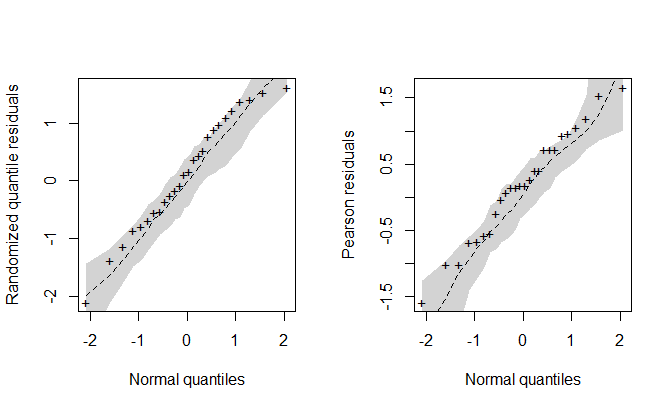
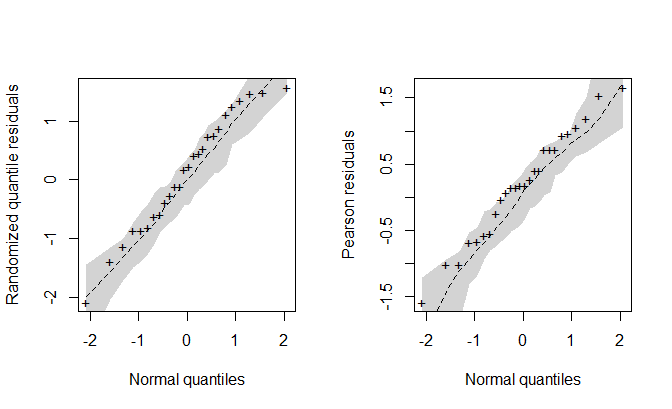
Update the README file

diff --git a/README.md b/README.md
@@ -1,20 +1,24 @@
 
 <!-- README.md is generated from README.Rmd. Please edit that file -->
 
-# `sdlrm`: Sdl Regression for Integer-Valued and Paired Count Data
+# `sdlrm`: Modified SDL Regression for Integer-Valued and Paired Count Data
 
 <!-- badges: start -->
+
+[![R-CMD-check](https://github.com/rdmatheus/sdlrm/actions/workflows/R-CMD-check.yaml/badge.svg)](https://github.com/rdmatheus/sdlrm/actions/workflows/R-CMD-check.yaml)
 <!-- badges: end -->
 
-> Rodrigo M. R. Medeiros  
-> <rodrigo.matheus@live.com>, IME-USP
+> Rodrigo M. R. de Medeiros  
+> Universidade Federal do Rio Grande do Norte, UFRN
+> <rodrigo.matheus@ufrn.br>
 
-Implementation of the SDL regression model proposed by Medeiros and
-Bourguignon (2020). The `sdlrm` package provide a set of functions for a
-complete analysis of integer-valued data, in which it is assumed that
-the dependent variable follows a Skew Discrete Laplace (SDL)
-distribution. This regression model is also useful for the analysis of
-experimental studies in which a paired count data is observed.
+Implementation of the modified SDL regression model proposed by Medeiros
+and Bourguignon (2025). The `sdlrm` package provide a set of functions
+for a complete analysis of integer-valued data, in which it is assumed
+that the dependent variable follows a modified skew discrete Laplace
+(SDL) distribution. This regression model is useful for the analysis of
+integer-valued data and experimental studies in which paired discrete
+observations are collected.
 
 ## Installation
 
@@ -50,6 +54,7 @@ popular packages, like `betareg` and `glm`, where the main function is
 methods.
 
 ``` r
+# Loading the sdlrm package
 library(sdlrm)
 
 # Data visualization (Description: ?pss)
@@ -58,88 +63,189 @@ library(sdlrm)
 ![](man/figures/fig1a.png)
 
 ``` r
-# Fit a double model (mean and dispersion) with a test for constant dispersion
-
-fit <- sdlrm(Diff ~ Group | Group, data = pss, disp_test = TRUE)
+# Fit a double model (mean and dispersion)
+fit0 <- sdlrm(difference ~ group | group, data = pss)
 
 # Print
-
-fit
+fit0
 #> 
 #> Call:
-#> sdlrm(formula = Diff ~ Group | Group, data = pss, disp_test = TRUE)
+#> sdlrm(formula = difference ~ group | group, data = pss)
 #> 
-#> mean Coefficients:
-#> [1]   7.363636 -11.296970
+#> Mean Coefficients:
+#> (Intercept)  groupSport 
+#>    7.363241  -11.296628 
 #> 
-#> dispersion Coefficients:
-#> [1]  2.6555938 -0.5875912
+#> Dispersion Coefficients:
+#> (Intercept)  groupSport 
+#>   2.6555857  -0.5875779 
+#> 
+#> ---
+#> Log-lik value: -88.56555
+#> Mode: 0
+#> AIC: 187.1311 and BIC: 193.4216
 
 # Summary
-
-summary(fit)
-#>
+summary(fit0)
 #> Call:
-#> sdlrm(formula = Diff ~ Group | Group, data = pss, disp_test = TRUE)
+#> sdlrm(formula = difference ~ group | group, data = pss)
 #> 
-#> Summary for residuals:
-#>       Mean       Sd  Skewness Kurtosis
-#>   0.012713 0.966192 -0.177681 1.800122
 #> 
-#> ----------------------------------------------------------------
-#> Mean:
-#> Coefficients:
-#>             Estimate Std. Error t value  Pr(>|t|)   
-#> (Intercept)   7.3636     3.6010  2.0449  0.040867 * 
-#> GroupSport  -11.2970     4.0119 -2.8159  0.004865 **
+#> Summary for quantile residuals:
+#>       Mean Std. dev.  Skewness Kurtosis
+#>   0.003877  0.948567 -0.096418 1.839793
+#> 
+#> 
+#> Mean coefficients:
+#>             Estimate Std. Error z value Pr(>|z|)   
+#> (Intercept)   7.3632     3.6010  2.0448 0.040874 * 
+#> groupSport  -11.2966     4.0119 -2.8158 0.004865 **
 #> ---
-#> Signif. codes:  
-#>   0 ‘***’ 0.001 ‘**’ 0.01 ‘*’ 0.05 ‘.’ 0.1 ‘ ’ 1
+#> Signif. codes:  0 '***' 0.001 '**' 0.01 '*' 0.05 '.' 0.1 ' ' 1
 #> 
-#> ----------------------------------------------------------------
-#> Dispersion:
 #> 
-#> Link function: log 
-#> Coefficients:
-#>             Estimate Std. Error t value  Pr(>|t|)    
-#> (Intercept)  2.65559    0.32089  8.2758    <2e-16 ***
-#> GroupSport  -0.58759    0.43006 -1.3663    0.1718    
+#> Dispersion coefficients with log link:
+#>             Estimate Std. Error z value Pr(>|z|)    
+#> (Intercept)  2.65559    0.32089  8.2758   <2e-16 ***
+#> groupSport  -0.58758    0.43006 -1.3663   0.1719    
 #> ---
-#> Signif. codes:  
-#>   0 ‘***’ 0.001 ‘**’ 0.01 ‘*’ 0.05 ‘.’ 0.1 ‘ ’ 1
+#> Signif. codes:  0 '***' 0.001 '**' 0.01 '*' 0.05 '.' 0.1 ' ' 1
 #> 
-#> ----------------------------------------------------------------
-#> 
-#> Test for constant dispersion:
-#>                 S         W        LR         G
-#> Value   1.9292900 1.8667800 1.8920900 1.8964500
-#> P value 0.1648361 0.1718443 0.1689664 0.1684762
-#>                 
-#> In addition, Log-lik value: -88.56555 
-#> AIC: 185.1311 and BIC: 190.1635
-
-# Plot
-
-plot(fit)
+#> ---
+#> Log-lik value: -88.56555
+#> Mode: 0
+#> Pseudo-R2:0.1717017
+#> AIC: 187.1311 and BIC: 193.4216
 ```
 
-![](man/figures/fig2a.png)
+By default, the mode ($\xi$) of the modified SDL distribution is fixed
+at $\xi = 0$. It is possible to specify a non-zero mode (it must be an
+integer value) using the `xi` argument. Alternatively, this parameter
+can be estimated via profile likelihood using the `choose_mode()`
+function:
 
 ``` r
-# Envelope
-
-envel_sdl(fit)
+## Mode estimation via profile likelihood
+mode_estimation <- choose_mode(fit0)
+#> 
+#> mode: -5 | logLik: -90.31 | AIC: 190.621 | BIC: 196.911
+#> mode: -4 | logLik: -89.584 | AIC: 189.169 | BIC: 195.459
+#> mode: -3 | logLik: -89.291 | AIC: 188.583 | BIC: 194.873
+#> mode: -2 | logLik: -88.945 | AIC: 187.889 | BIC: 194.18
+#> mode: -1 | logLik: -89.018 | AIC: 188.036 | BIC: 194.327
+#> mode: 0 | logLik: -88.566 | AIC: 187.131 | BIC: 193.422
+#> mode: 1 | logLik: -87.677 | AIC: 185.355 | BIC: 191.645
+#> mode: 2 | logLik: -88.413 | AIC: 186.826 | BIC: 193.116
+#> mode: 3 | logLik: -88.347 | AIC: 186.694 | BIC: 192.984
+#> mode: 4 | logLik: -89.305 | AIC: 188.609 | BIC: 194.9
+#> mode: 5 | logLik: -93.292 | AIC: 196.585 | BIC: 202.875
 ```
 
-![](man/figures/fig3a.png) ![alt text](man/figures/fig3b.png)
+<img src="man/figures/README-unnamed-chunk-4-1.png" width="90%" style="display: block; margin: auto;" />
 
-Currently, the methods implemented for “sdlrm” objects are
+The `mode_estimation` object, of class `“choose_mode”`, consists of a
+list whose elements represent a modified SDL regression fit for each
+value specified for the mode (by default, the sequence
+$-5, -4, \ldots, 4, 5$). We see that $\xi = 1$ generates the highest
+profiled likelihood.
+
+``` r
+## Double model with xi = 1
+fit1 <- mode_estimation[[1]]
+```
+
+The constant dispersion test in the modified SDL regression can be
+performed with the `disp_test()` function:
+
+``` r
+## Test for constant dispersion
+disp_test(fit1)
+#>            Score   Wald Lik. Ratio Gradient
+#> Statistic 2.2968 2.2289     2.2625   2.2669
+#> p-Value   0.1296 0.1354     0.1325   0.1322
+```
+
+The tests do not reject the null hypothesis of constant dispersion. We
+can then specify an adjustment with regressors only on the mean:
+
+``` r
+## Fit with constant dispersion and mode = 1
+fit <- sdlrm(difference ~ group, data = pss, xi = 1)
+
+## Summary
+summary(fit)
+#> Call:
+#> sdlrm(formula = difference ~ group, data = pss, xi = 1)
+#> 
+#> 
+#> Summary for quantile residuals:
+#>       Mean Std. dev.  Skewness Kurtosis
+#>   0.134617  0.982147 -0.282004 2.209202
+#> 
+#> 
+#> Mean coefficients:
+#>             Estimate Std. Error z value Pr(>|z|)   
+#> (Intercept)   5.6976     2.3592  2.4150 0.015733 * 
+#> groupSport  -11.3649     3.5272 -3.2221 0.001272 **
+#> ---
+#> Signif. codes:  0 '***' 0.001 '**' 0.01 '*' 0.05 '.' 0.1 ' ' 1
+#> 
+#> 
+#> Dispersion coefficients with log link:
+#>             Estimate Std. Error z value  Pr(>|z|)    
+#> (Intercept)  2.33085    0.21283  10.952 < 2.2e-16 ***
+#> ---
+#> Signif. codes:  0 '***' 0.001 '**' 0.01 '*' 0.05 '.' 0.1 ' ' 1
+#> 
+#> ---
+#> Log-lik value: -88.8298
+#> Mode: 1
+#> Pseudo-R2:0.3378125
+#> AIC: 185.6596 and BIC: 190.692
+```
+
+Currently, the methods implemented for `"sdlrm"` objects are
 
 ``` r
 methods(class = "sdlrm")
-#>
-#> [1] AIC          BIC          coef         logLik      
-#> [5] model.matrix plot         print        summary     
-#> [9] vcov        
+#>  [1] AIC          coef         logLik       model.frame  model.matrix
+#>  [6] plot         predict      print        residuals    summary     
+#> [11] vcov        
 #> see '?methods' for accessing help and source code
+```
+
+The `plot()` method provides diagnostic plots of the residuals. By
+default, randomized quantile residuals are used:
+
+``` r
+par(mfrow = c(1, 2))
+plot(fit, ask = FALSE)
+```
+
+<img src="man/figures/README-unnamed-chunk-9-1.png" width="90%" style="display: block; margin: auto;" />
+
+``` r
+par(mfrow = c(1, 1))
+```
+
+The `envelope()` function plots the normal probability of the residuals
+with a simulated envelope:
+
+``` r
+## Building the envelope plot
+envel <- envelope(fit, plot = FALSE)
+#>   |                                                                              |                                                                      |   0%  |                                                                              |=                                                                     |   1%  |                                                                              |=                                                                     |   2%  |                                                                              |==                                                                    |   3%  |                                                                              |===                                                                   |   4%  |                                                                              |====                                                                  |   5%  |                                                                              |====                                                                  |   6%  |                                                                              |=====                                                                 |   7%  |                                                                              |======                                                                |   8%  |                                                                              |======                                                                |   9%  |                                                                              |=======                                                               |  10%  |                                                                              |========                                                              |  11%  |                                                                              |=========                                                             |  12%  |                                                                              |=========                                                             |  13%  |                                                                              |==========                                                            |  14%  |                                                                              |===========                                                           |  15%  |                                                                              |===========                                                           |  16%  |                                                                              |============                                                          |  17%  |                                                                              |=============                                                         |  18%  |                                                                              |==============                                                        |  19%  |                                                                              |==============                                                        |  20%  |                                                                              |===============                                                       |  21%  |                                                                              |================                                                      |  22%  |                                                                              |================                                                      |  23%  |                                                                              |=================                                                     |  24%  |                                                                              |==================                                                    |  26%  |                                                                              |===================                                                   |  27%  |                                                                              |===================                                                   |  28%  |                                                                              |====================                                                  |  29%  |                                                                              |=====================                                                 |  30%  |                                                                              |=====================                                                 |  31%  |                                                                              |======================                                                |  32%  |                                                                              |=======================                                               |  33%  |                                                                              |========================                                              |  34%  |                                                                              |========================                                              |  35%  |                                                                              |=========================                                             |  36%  |                                                                              |==========================                                            |  37%  |                                                                              |==========================                                            |  38%  |                                                                              |===========================                                           |  39%  |                                                                              |============================                                          |  40%  |                                                                              |=============================                                         |  41%  |                                                                              |=============================                                         |  42%  |                                                                              |==============================                                        |  43%  |                                                                              |===============================                                       |  44%  |                                                                              |===============================                                       |  45%  |                                                                              |================================                                      |  46%  |                                                                              |=================================                                     |  47%  |                                                                              |==================================                                    |  48%  |                                                                              |==================================                                    |  49%  |                                                                              |===================================                                   |  50%  |                                                                              |====================================                                  |  51%  |                                                                              |====================================                                  |  52%  |                                                                              |=====================================                                 |  53%  |                                                                              |======================================                                |  54%  |                                                                              |=======================================                               |  55%  |                                                                              |=======================================                               |  56%  |                                                                              |========================================                              |  57%  |                                                                              |=========================================                             |  58%  |                                                                              |=========================================                             |  59%  |                                                                              |==========================================                            |  60%  |                                                                              |===========================================                           |  61%  |                                                                              |============================================                          |  62%  |                                                                              |============================================                          |  63%  |                                                                              |=============================================                         |  64%  |                                                                              |==============================================                        |  65%  |                                                                              |==============================================                        |  66%  |                                                                              |===============================================                       |  67%  |                                                                              |================================================                      |  68%  |                                                                              |=================================================                     |  69%  |                                                                              |=================================================                     |  70%  |                                                                              |==================================================                    |  71%  |                                                                              |===================================================                   |  72%  |                                                                              |===================================================                   |  73%  |                                                                              |====================================================                  |  74%  |                                                                              |=====================================================                 |  76%  |                                                                              |======================================================                |  77%  |                                                                              |======================================================                |  78%  |                                                                              |=======================================================               |  79%  |                                                                              |========================================================              |  80%  |                                                                              |========================================================              |  81%  |                                                                              |=========================================================             |  82%  |                                                                              |==========================================================            |  83%  |                                                                              |===========================================================           |  84%  |                                                                              |===========================================================           |  85%  |                                                                              |============================================================          |  86%  |                                                                              |=============================================================         |  87%  |                                                                              |=============================================================         |  88%  |                                                                              |==============================================================        |  89%  |                                                                              |===============================================================       |  90%  |                                                                              |================================================================      |  91%  |                                                                              |================================================================      |  92%  |                                                                              |=================================================================     |  93%  |                                                                              |==================================================================    |  94%  |                                                                              |==================================================================    |  95%  |                                                                              |===================================================================   |  96%  |                                                                              |====================================================================  |  97%  |                                                                              |===================================================================== |  98%  |                                                                              |===================================================================== |  99%  |                                                                              |======================================================================| 100%
+
+par(mfrow = c(1, 2))
+# Plot for the randomized quantile residuals (default)
+plot(envel)
+
+# Plot for the Pearson residuals
+plot(envel, type = "pearson")
+```
+
+<img src="man/figures/README-unnamed-chunk-10-1.png" width="90%" style="display: block; margin: auto;" />
+
+``` r
+par(mfrow = c(1, 1))
 ```
